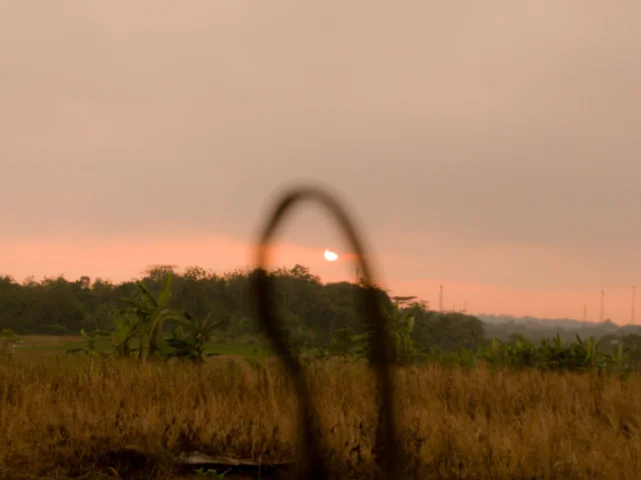
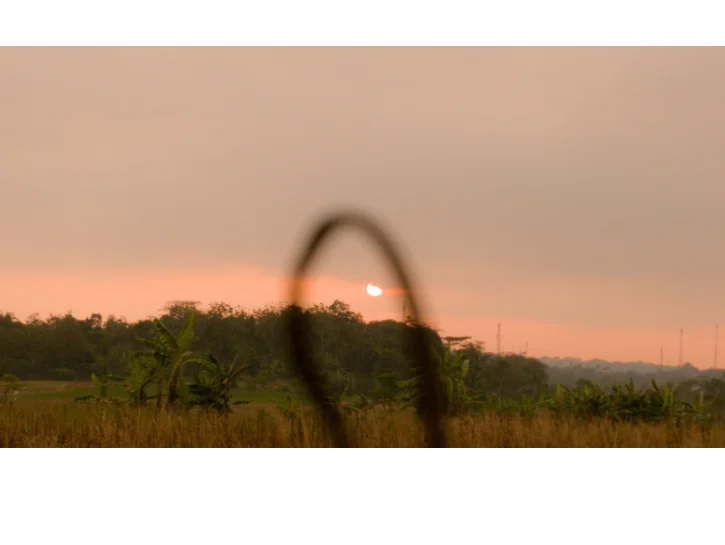
resize gambar ke yang lebih ringan, memindah gambar ke dalam folder images, sedikit fixing di index.html, dan setting dasar style.css

Changed region(s): [[0.0, 0.8125, 1.0, 1.0], [0.0, 0.0, 1.0, 0.0938]]

diff --git a/index.html b/index.html
@@ -5,6 +5,14 @@
 	<meta charset="UTF-8">
 	<meta name="viewport" content="width=device-width, initial-scale=1.0">
 	<title>Portfolio | Iqbal Maulana Alfiqi</title>
+	
+	<!-- link style -->
+	<link rel="stylesheet" href="css/style.css">
+	
+	<!-- link font -->
+	<link rel="preconnect" href="https://fonts.googleapis.com">
+	<link rel="preconnect" href="https://fonts.gstatic.com" crossorigin>
+	<link href="https://fonts.googleapis.com/css2?family=Libre+Baskerville:ital,wght@0,400..700;1,400..700&family=Nunito+Sans:ital,opsz,wght@0,6..12,200..1000;1,6..12,200..1000&display=swap" rel="stylesheet">
 </head>
 <body>
 	<header>
@@ -18,11 +26,11 @@
 	
 		<nav class="nav" id="nav">
         <ul class="nav-list">
-			<li><a href="#beranda" class="nav-link">Beranda</a></li>
-			<li><a href="#tentang" class="nav-link">Tentang</a></li>
-			<li><a href="#pencapaian" class="nav-link">Pencapaian</a></li>
-			<li><a href="#galeri" class="nav-link">Galeri</a></li>
-			<li><a href="#kontak" class="nav-link">Kontak</a></li>
+			<li><a href="#beranda" class="nav-link">Home</a></li>
+			<li><a href="#tentang" class="nav-link">About</a></li>
+			<li><a href="#pencapaian" class="nav-link">Achievement</a></li>
+			<li><a href="#galeri" class="nav-link">Gallery</a></li>
+			<li><a href="#kontak" class="nav-link">Contact</a></li>
         </ul>
       </nav>
 	</header>
@@ -33,7 +41,7 @@
 		<section id="beranda">
 		
 			<!-- Teks Hero dan Paragraf Pembuka -->
-			<h1>Versatile Creative Worker Here</h1>
+			<h1>Designing Ideas, Capturing Moments</h1>
 			<p>Merancang konten yang efektif untuk menjangkau audiens dan membangun kepercayaan terhadap brand.</p>
 			
 			<!-- Section Tambahan-->
@@ -41,7 +49,7 @@
 			<a href="#galeri" class="">Koleksi Galeri</a>
 		</section>
 		
-		<!-- ======== TENTANG DIRI ======== -->
+		<!-- ======== TENTANG ======== -->
 		
 		<section id="tentang">
 		
@@ -72,53 +80,46 @@
 			<!-- ===== Software Kreatif yang dikuasai ===== -->
 			<h2>Creative Tools</h2>
 			
-			<img src="assets/icons/affinity.png">
+			<img src="assets/images/affinity.png">
 			<p>Affinity by Canva</p>
 			
-			<img src="assets/icons/coreldraw.png">
+			<img src="assets/images/coreldraw.png">
 			<p>CorelDRAW</p>
 			
-			<img src="assets/icons/adobe-lightroom.png">
+			<img src="assets/images/adobe-lightroom.png">
 			<p>Adobe Lightroom</p>
 			
-			<img src="assets/icons/snapseed.png">
+			<img src="assets/images/snapseed.png">
 			<p>Snapseed</p>
 			
-			<img src="assets/icons/davinci-resolve.png">
+			<img src="assets/images/davinci-resolve.png">
 			<p>DaVinci Resolve</p>
 			
 			<!-- ===== Web Development / Penguasaan Dalam Web Building ===== -->
 			<h2>Web Development</h2>
 			
-			<img src="assets/icons/html.png">
+			<img src="assets/images/html.png">
 			<p>HTML</p>
 			
-			<img src="assets/icons/css.png">
+			<img src="assets/images/css.png">
 			<p>CSS</p>
 			
 			<!-- ===== AI & Workflow ===== -->
 			<h2>AI & Workflow</h2>
 			
-			<img src="assets/icons/chatgpt.png">
-			<p>ChatGPT</p>
-			
-			<img src="assets/icons/claude.png">
-			<p>Claude</p>
-			
-			<img src="assets/icons/gemini.png">
-			<p>Gemini</p>
-			
-			<img src="assets/icons/notebooklm.png">
-			<p>NotebookLM</p>
+			<img src="assets/images/chatgpt.png">
+			<img src="assets/images/claude.png">
+			<img src="assets/images/gemini.png">
+			<img src="assets/images/notebooklm.png">
 		</section>
 		
-		<!-- ======== PENCAPAIAN DIRIMU ======== -->
+		<!-- ======== PENCAPAIAN ======== -->
 		
 		<Section id="pencapaian">
 			
 			<!-- Lomba PULDAPII Muslim Edufest 2026 -->
 			<img src="assets/images">
-			<h2>Winners of the PULDAPII Muslim Edufest Digital Poster Design Contest</h2>
+			<h2>Second Place Winner in the Digital Poster Design Competition at PULDAPII Muslim Edufest 2026</h2>
 			<p>
 				Meraih Juara II dalam kategori Desain Poster Digital pada ajang PULDAPII 
 				Muslim Edufest 2026 yang diselenggarakan di ICE BSD City, Tangerang.
@@ -133,7 +134,30 @@
 			</p>
 		</Section>
 		
+		<!-- ======== GALERI ======== -->
+		<section id="galeri">
+			<img src="assets/images/image_2.webp" alt="Gallery">
+			<img src="assets/images/image_4.webp" alt="Gallery">
+			<img src="assets/images/image_13.webp" alt="Gallery">
+			
+			<img src="assets/images/image_1.webp" alt="Gallery">
+			<img src="assets/images/image_6.webp" alt="Gallery">
+			<img src="assets/images/image_7.webp" alt="Gallery">
+			
+			<img src="assets/images/image_3.webp" alt="Gallery">
+			<img src="assets/images/image_9.webp" alt="Gallery">
+			<img src="assets/images/image_11.webp" alt="Gallery">
+			
+			<img src="assets/images/image_5.webp" alt="Gallery">
+			<img src="assets/images/image_10.webp" alt="Gallery">
+			<img src="assets/images/image_12.webp" alt="Gallery">
+			<img src="assets/images/image_14.webp" alt="Gallery">
+			<img src="assets/images/image_8.webp" alt="Gallery">
+		</Section>
 		
+		<Section id="kontak">
+			<img src="assets/images">
+		</Section>
 	</main>
 	<footer>
 	

diff --git a/css/style.css b/css/style.css
@@ -1,1 +1,47 @@
-/* mencoba file */
+/* ======== VARIABEL WARNA ======== */
+:root {
+	--bg: #2C2C2C;
+	--accent: #FAF33E;
+	--text: #E7ECEF;
+	--border: #;
+	
+	--font-serif: "Libre Baskerville", serif; /* Head */
+	--font-sans: "Inter",sans-serif; /* Paragraph */
+}
+
+/* ======== RESET PENGATURAN ======== */
+* {
+	margin: 0; 
+	padding: 0; 
+	box-sizing: border-box; 
+}
+
+html {
+  scroll-behavior: smooth;                 /* gulir halus saat klik link */
+  scroll-padding-top: var(--header-h);     /* agar judul tidak tertutup header */
+}
+
+body {
+  font-family: var(--font-sans);
+  background: var(--bg);
+  color: var(--text);
+  line-height: 1.7;
+  -webkit-font-smoothing: antialiased;
+}
+
+h1, h2, h3, h4 {
+	font-family: var(--font-serif); 
+	line-height: 1.2;
+}
+
+a {
+	color: inherit; 
+	text-decoration: none;
+}
+
+ul { list-style: none; }
+
+img {
+	max-width: 100%; 
+	display: block;
+}
